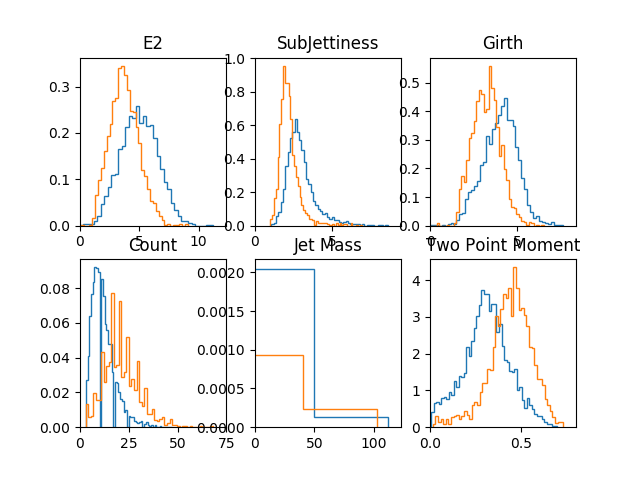
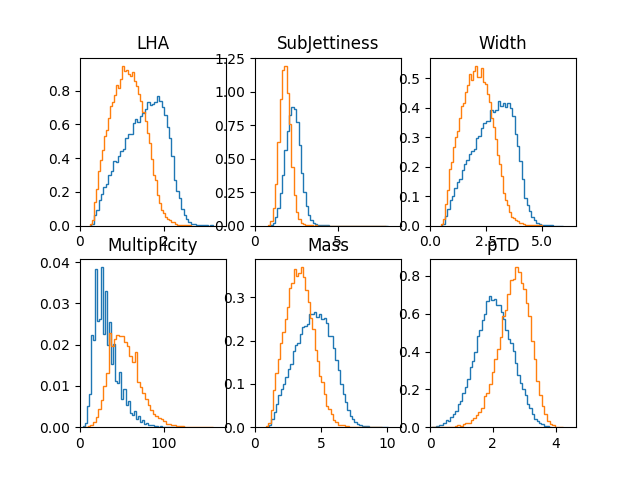
Different Jet Variables

diff --git a/analysis-code/main-analysis.cc b/analysis-code/main-analysis.cc
@@ -23,8 +23,10 @@ namespace dataevents {
 void write_to_file(std::vector<float> e2_main);
 void add_to_hist(std::vector<float> e2_main,TH1 *e2_hist);
 void hist_to_file(TH1 *e2,double *a);
-void eflow_analysis(Float_t *ET,Float_t *eta,Float_t *phi,Float_t *E,Int_t size,std::vector<float> &e2,double *a);
-void eflow_analysis_track(Float_t *ET,Float_t *eta,Float_t *phi,Float_t *E,Int_t* PID,Int_t size,std::vector<float> &e2,double *a);
+void eflow_analysis(Float_t *ph_ET,Float_t *ph_eta,Float_t *ph_phi,Float_t *ph_E,Int_t ph_size,
+            Float_t *nuH_ET,Float_t *nuH_eta,Float_t *nuH_phi,Float_t *nuH_E,Int_t nuH_size,
+            Float_t *tr_ET,Float_t *tr_eta,Float_t *tr_phi,Float_t *tr_E,Int_t *tr_PID,Int_t tr_size,
+                    std::vector<float> &e2,double *a);
 template <typename T>
 void EventLoop(T &event,std::vector<float> &e2,double *a,int &taskid,int &numtasks)
 {
@@ -40,43 +42,54 @@ void EventLoop(T &event,std::vector<float> &e2,double *a,int &taskid,int &numtas
      std::cout<<std::setw(15)<<"Gathering event  "<<std::setw(10)<<jentry<<std::setw(15)<<
          " in the process "<<std::setw(2)<<taskid<<std::setw(5)<<"("<<(k*100.0)/chunksize<<"% )"<<std::endl;}
      event.GetEntry(jentry);
-     //root_to_fastjet(event.Particle_Px,event.Particle_Py,event.Particle_Pz,event.Particle_E,event.Particle_Status,event.Particle_PID,event.Particle_size,e2,a);
-     eflow_analysis(event.EFlowPhoton_ET,event.EFlowPhoton_Eta,event.EFlowPhoton_Phi,event.EFlowPhoton_E,event.EFlowPhoton_size,e2,a); 
-     eflow_analysis(event.EFlowNeutralHadron_ET,event.EFlowNeutralHadron_Eta,event.EFlowNeutralHadron_Phi,event.EFlowNeutralHadron_E,event.EFlowNeutralHadron_size,e2,a); 
-     eflow_analysis_track(event.EFlowTrack_PT,event.EFlowTrack_Eta,event.EFlowTrack_Phi,event.EFlowTrack_P,event.EFlowTrack_PID,event.EFlowTrack_size,e2,a); 
-
+     root_to_fastjet(event.Particle_Px,event.Particle_Py,event.Particle_Pz,event.Particle_E,event.Particle_Status,event.Particle_PID,event.Particle_size,e2,a);
+     /*
+     eflow_analysis(event.EFlowPhoton_ET,event.EFlowPhoton_Eta,event.EFlowPhoton_Phi,event.EFlowPhoton_E,event.EFlowPhoton_size,
+        event.EFlowNeutralHadron_ET,event.EFlowNeutralHadron_Eta,event.EFlowNeutralHadron_Phi,event.EFlowNeutralHadron_E,event.EFlowNeutralHadron_size, 
+        event.EFlowTrack_PT,event.EFlowTrack_Eta,event.EFlowTrack_Phi,event.EFlowTrack_P,event.EFlowTrack_PID,event.EFlowTrack_size,e2,a); 
+        */
    }
-
 }
-void eflow_analysis_track(Float_t *ET,Float_t *eta,Float_t *phi,Float_t *E,Int_t* PID,Int_t size,std::vector<float> &e2,double *a){
-  Float_t px[size];
-  Float_t py[size];
-  Float_t pz[size];
-  Int_t status[size];
-  for(int i=0;i<size;i++){
-    px[i] = ET[i]*std::cos(phi[i]);
-    py[i] = ET[i]*std::sin(phi[i]);
-    pz[i] = ET[i]*std::sinh(eta[i]);
-    status[i] = 1;
-  }
-   root_to_fastjet(px,py,pz,E,status,PID,size,e2,a);
 
-}
-void eflow_analysis(Float_t *ET,Float_t *eta,Float_t *phi,Float_t *E,Int_t size,std::vector<float> &e2,double *a){
-  Float_t px[size];
-  Float_t py[size];
-  Float_t pz[size];
-  Int_t status[size];
-  Int_t PID[size];
-  for(int i=0;i<size;i++){
-    px[i] = ET[i]*std::cos(phi[i]);
-    py[i] = ET[i]*std::sin(phi[i]);
-    pz[i] = ET[i]*std::sinh(eta[i]);
-    status[i] = 1;
-    PID[i] = 0;
-  }
-   root_to_fastjet(px,py,pz,E,status,PID,size,e2,a);
+void eflow_analysis(Float_t *ph_ET,Float_t *ph_eta,Float_t *ph_phi,Float_t *ph_E,Int_t ph_size,
+            Float_t *nuH_ET,Float_t *nuH_eta,Float_t *nuH_phi,Float_t *nuH_E,Int_t nuH_size,
+            Float_t *tr_ET,Float_t *tr_eta,Float_t *tr_phi,Float_t *tr_E,Int_t *tr_PID,Int_t tr_size,
+            std::vector<float> &e2,double *a){
+  Float_t px[ph_size + nuH_size + tr_size];
+  Float_t py[ph_size + nuH_size + tr_size];
+  Float_t pz[ph_size + nuH_size + tr_size];
+  Float_t E[ph_size + nuH_size + tr_size];
+  Int_t status[ph_size + nuH_size + tr_size];
+  Int_t PID[ph_size + nuH_size + tr_size];
+  printf("TOTAL SIZE OF INPUTS: %ld %ld %ld %ld\n",ph_size + nuH_size + tr_size,ph_size,nuH_size,tr_size);
+  for(int i=0;i<ph_size;i++){
+        px[i] = ph_ET[i]*std::cos(ph_phi[i]);
+        py[i] = ph_ET[i]*std::sin(ph_phi[i]);
+        pz[i] = ph_ET[i]*std::sinh(ph_eta[i]);
+        E[i] = ph_E[i];
+        status[i] = 1;
+        PID[i] = 22;
+      }
 
+  for(int i=0;i<nuH_size;i++){
+        px[ph_size + i] = nuH_ET[i]*std::cos(nuH_phi[i]);
+        py[ph_size + i] = nuH_ET[i]*std::sin(nuH_phi[i]);
+        pz[ph_size + i] = nuH_ET[i]*std::sinh(nuH_eta[i]);
+        E[ph_size + i] = nuH_E[i];
+        status[ph_size + i] = 1;
+        PID[ph_size + i] = 2200;
+      }
+
+  for(int i=0;i<tr_size;i++){
+        px[ph_size + nuH_size + i] = tr_ET[i]*std::cos(tr_phi[i]);
+        py[ph_size + nuH_size + i] = tr_ET[i]*std::sin(tr_phi[i]);
+        pz[ph_size + nuH_size + i] = tr_ET[i]*std::sinh(tr_eta[i]);
+        E[ph_size + nuH_size + i] = tr_E[i];
+        status[ph_size + nuH_size + i] = 1;
+        PID[ph_size + nuH_size + i] = tr_PID[i];
+      }
+
+   root_to_fastjet(px,py,pz,E,status,PID,ph_size + nuH_size + tr_size,e2,a);
 }
 
 //Main Function

diff --git a/analysis-code/fastjet-analysis.cc b/analysis-code/fastjet-analysis.cc
@@ -7,10 +7,10 @@
 #include "fastjet/contrib/Nsubjettiness.hh"
 #define RES 56 //Image resolution
 #define PI 3.1415
-#define RANGE 0.5
+#define RANGE 0.2
 double girth(fastjet::PseudoJet this_jet);
 double Nsubjet(fastjet::PseudoJet this_jet);
-double e_alpha(fastjet::PseudoJet this_jet,double Rparam,double alpha);
+double e_alpha(fastjet::PseudoJet this_jet,double Rparam,double k,double alpha);
 int count(fastjet::PseudoJet jet);
 double two_point_moment(fastjet::PseudoJet this_jet);
 void jet_imagemaker(fastjet::PseudoJet jet){
@@ -32,12 +32,21 @@ void jet_imagemaker(fastjet::PseudoJet jet){
     else{
       continue;}
   }
+
+ double sum = 0;
+ for(int i=0;i<RES*RES;i++)
+   sum+= image[i];
+
+ for(int i=0;i<RES*RES;i++)
+   image[i] /= sum;
+
   std::ofstream f("images.txt",std::ios::app); 
   for(int i=0;i<RES;i++){
   for(int j=0;j<RES;j++){
     f<<image[i*RES + j]<<"\t";
   }
   }
+
   f<<std::endl;
 
 }
@@ -80,7 +89,7 @@ void root_to_fastjet(Float_t *px,Float_t *py,Float_t *pz,Float_t *e,Int_t *parti
       std::cout << "Strategy adopted by FastJet was "
                 << clustSeq.strategy_string() << std::endl << std::endl;
     }
-    std::vector<fastjet::PseudoJet> jets = fastjet::sorted_by_pt(clustSeq.inclusive_jets(0.0));
+    std::vector<fastjet::PseudoJet> jets = fastjet::sorted_by_pt(clustSeq.inclusive_jets(350.0));
   
   fastjet::contrib::SoftDrop sd(beta, z_cut);
   //std::cout << "SoftDrop groomer is: " << sd.description() << std::endl;
@@ -111,28 +120,38 @@ void root_to_fastjet(Float_t *px,Float_t *py,Float_t *pz,Float_t *e,Int_t *parti
   double m = 0;//Mass
   double m2p = 0;//Two Point Moment
   for( unsigned ijet = 0; ijet < soft_jets.size();ijet++){
-    if(soft_jets[ijet].pt() < ptcutoff) continue;
+    if(soft_jets[ijet].pt() < ptcutoff) {continue;}
     //if((soft_jets[ijet].m() < 100) && (soft_jets[ijet].m() > 80)) continue;
     jet_imagemaker(soft_jets[ijet]);
-     e_2 = e_alpha(soft_jets[ijet],Rparam,alpha);
+    // 5 Different Anularities
+    cnt = e_alpha(soft_jets[ijet],Rparam,0,0);
+    g = e_alpha(soft_jets[ijet],Rparam,1,1);
+    m = e_alpha(soft_jets[ijet],Rparam,1,2);
+    e_2 = e_alpha(soft_jets[ijet],Rparam,1,0.5);
+    m2p = e_alpha(soft_jets[ijet],Rparam,2,0);
+     tau = Nsubjet(soft_jets[ijet]);
+
+     // 5 Different Variables
+    /* e_2 = e_alpha(soft_jets[ijet],Rparam,1,alpha);
      tau = Nsubjet(soft_jets[ijet]);
      g = girth(soft_jets[ijet]);
       cnt = count(soft_jets[ijet]); 
       m = soft_jets[ijet].m();
       m2p = two_point_moment(soft_jets[ijet]);
+*/
 
      if(!std::isfinite(-log(e_2))) break;
      if(!std::isfinite(-log(tau))) break;
      if(!std::isfinite(-log(g))) break;
-     if(!std::isfinite(m)) break;
-     if(!std::isfinite(m2p)) break;
+     if(!std::isfinite(-log(m))) break;
+     if(!std::isfinite(-log(m2p))) break;
       
       e2.push_back(-log(e_2));
       e2.push_back(-log(tau));
       e2.push_back(-log(g));
       e2.push_back(cnt);
-      e2.push_back(m);
-      e2.push_back(m2p);
+      e2.push_back(-log(m));
+      e2.push_back(-log(m2p));
      break;
   }//Jet Constituent Loop 
 }//Function Ends here
@@ -155,11 +174,11 @@ int count(fastjet::PseudoJet this_jet){
     return constituents.size();
 }
 
-double e_alpha(fastjet::PseudoJet this_jet,double Rparam,double alpha){
+double e_alpha(fastjet::PseudoJet this_jet,double Rparam,double k,double alpha){
     double e_2 = 0;
     std::vector<fastjet::PseudoJet> constituents = this_jet.constituents();
     for( unsigned iconst = 0;iconst < constituents.size();iconst++){
-    e_2 += constituents[iconst].pt()/this_jet.pt() * pow(this_jet.delta_R(constituents[iconst])/Rparam,alpha);
+    e_2 += pow(constituents[iconst].pt()/this_jet.pt(),k) * pow(this_jet.delta_R(constituents[iconst])/Rparam,alpha);
     }
     return e_2;
 }
@@ -173,5 +192,5 @@ double Nsubjet(fastjet::PseudoJet this_jet){
 }
 
 double girth(fastjet::PseudoJet this_jet){
-    return e_alpha(this_jet,1,1); 
+    return e_alpha(this_jet,1,1,1); 
 }

diff --git a/plotting-code/histoviewer.py b/plotting-code/histoviewer.py
@@ -6,7 +6,8 @@ temp = np.loadtxt('quark_1e5_13tev-eflow.txt')
 temp2 = np.loadtxt('gluon_1e5_13tev-eflow.txt')
 #temp = np.loadtxt('quark_1e5_13tev.txt')
 #temp2 = np.loadtxt('gluon_1e5_13tev.txt')
-Titles = ['E2','SubJettiness','Girth','Count','Jet Mass','Two Point Moment']
+#Titles = ['E2','SubJettiness','Girth','Count','Jet Mass','Two Point Moment']
+Titles = ['LHA','SubJettiness','Width','Multiplicity','Mass','pTD']
 #save = ['e2.png','tau.png','girth.png']
 #save = ['e2-eflow.png','tau-eflow.png','girth-eflow.png']
 save = 'histograms.png'
@@ -24,5 +25,4 @@ for i in range(len(temp[1,:])):
 plt.savefig(save,bbox='tight')
 plt.tight_layout()
 plt.legend(loc='upper right')
-#plt.show()
 plt.close()

diff --git a/plotting-code/imageviewer.py b/plotting-code/imageviewer.py
@@ -2,7 +2,7 @@ import numpy as np
 import matplotlib.pyplot as plt
 import matplotlib.cm as cm
 kkk=cm.gist_stern # Put the Plotting Style here
-ran = 0.25 # Range of the Plot
+ran = 0.4 # Range of the Plot
 temp = np.loadtxt('quark_1e5_13tev-eflow.img')
 temp2 = np.loadtxt('gluon_1e5_13tev-eflow.img')
 
